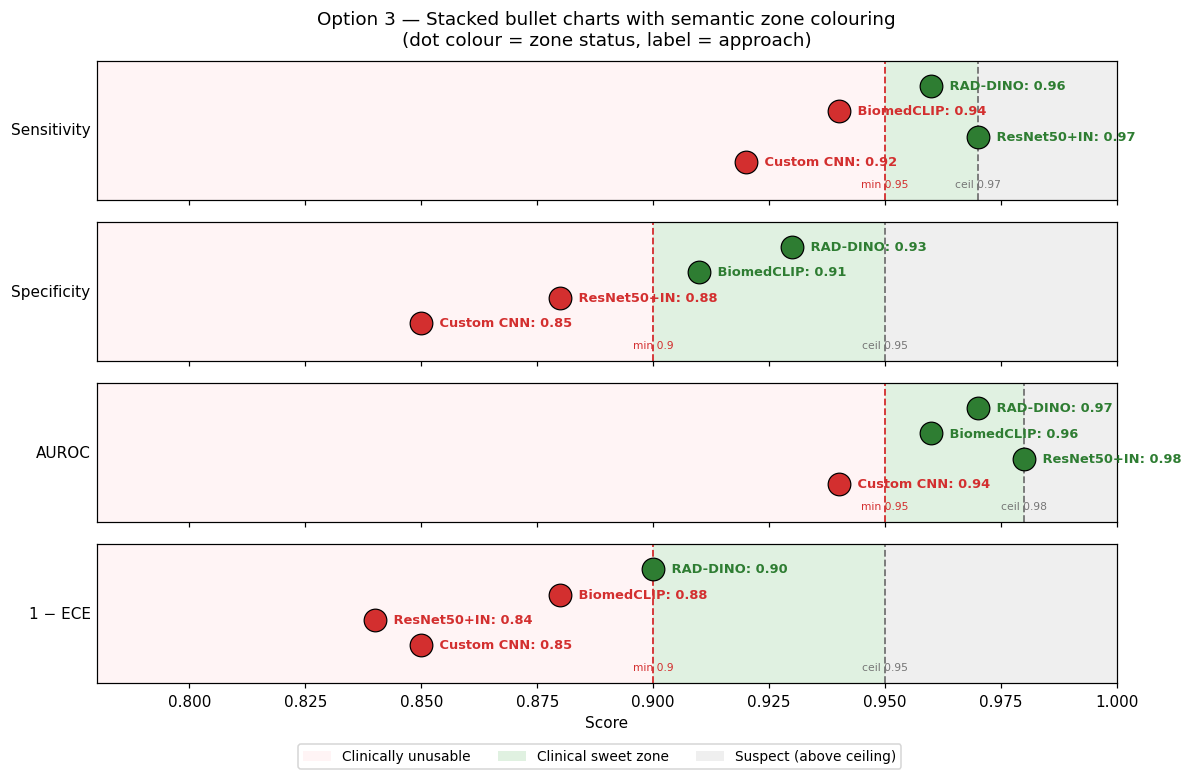
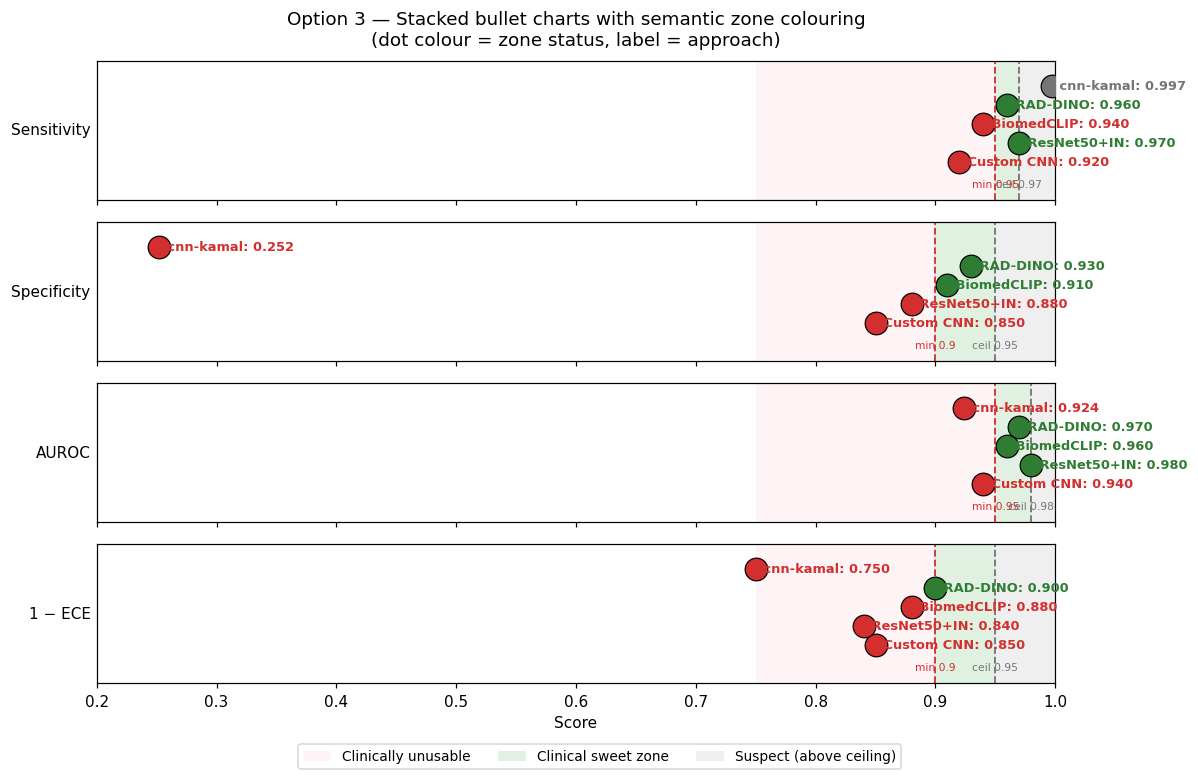
Demo viz: add cnn-kamal peer reference to Option 3 bullet chart
Adds a fifth approach to the standalone Option 3 mockup (not to the
notebook) with measurements from the peer reference discussed in
earlier conversation:

  cnn-kamal: sensitivity 0.997, specificity 0.252, AUROC 0.924, 1-ECE 0.750

The bullet chart's xlim is extended to 0.20-1.00 so the spec=0.252
point is visible. Result is visually striking: cnn-kamal sits in the
'suspect' (grey) zone for sensitivity but is 'clinically unusable'
(red) on every other metric — the classic 'predict-everything-positive'
pattern reachable via aggressive threshold tuning.

Value precision on dot labels bumped from .2f to .3f so values like
0.997 don't round to 1.000.

Option 5 (sens × spec scatter) explicitly excludes cnn-kamal — its
spec=0.252 falls off the 0.78-1.0 scatter axis, and the bullet chart
already shows the case.

diff --git a/_helpers/_viz_options.py b/_helpers/_viz_options.py
@@ -8,7 +8,7 @@ import numpy as np
 
 OUT_DIR = Path(__file__).resolve().parent
 
-APPROACHES = ['Custom CNN', 'ResNet50+IN', 'BiomedCLIP', 'RAD-DINO']
+APPROACHES = ['Custom CNN', 'ResNet50+IN', 'BiomedCLIP', 'RAD-DINO', 'cnn-kamal']
 METRICS = ['Sensitivity', 'Specificity', 'AUROC', '1 − ECE']
 THR_MIN = {'Sensitivity': 0.95, 'Specificity': 0.90, 'AUROC': 0.95, '1 − ECE': 0.90}
 THR_MAX = {'Sensitivity': 0.97, 'Specificity': 0.95, 'AUROC': 0.98, '1 − ECE': 0.95}
@@ -18,6 +18,10 @@ VALUES = {
     'ResNet50+IN': [0.97, 0.88, 0.98, 0.84],
     'BiomedCLIP':  [0.94, 0.91, 0.96, 0.88],
     'RAD-DINO':    [0.96, 0.93, 0.97, 0.90],
+    # Peer reference (anonymous): high sens via threshold tuning at the cost
+    # of specificity, AUROC, and calibration. Included as an instructive
+    # example of an "unusable" classifier despite impressive sensitivity.
+    'cnn-kamal':   [0.997, 0.252, 0.924, 0.75],
 }
 
 # Semantic zone colours
@@ -66,7 +70,7 @@ def option3():
             y = y_offsets[i]
             ax.scatter(v, y, s=220, color=c, zorder=3,
                        edgecolor='black', linewidth=0.8)
-            ax.text(v + 0.003, y, f' {app}: {v:.2f}',
+            ax.text(v + 0.003, y, f' {app}: {v:.3f}',
                     va='center', fontsize=8.5, fontweight='bold', color=c)
         # Threshold labels at bottom
         ax.text(THR_MIN[m], -1.0, f'min {THR_MIN[m]}', ha='center',
@@ -75,7 +79,7 @@ def option3():
                 fontsize=7, color=COLOR_SUS)
         ax.set_ylabel(m, fontsize=10, rotation=0, ha='right', va='center')
         ax.set_yticks([]); ax.set_ylim(-1.2, 1.0)
-        ax.set_xlim(0.78, 1.0)
+        ax.set_xlim(0.20, 1.0)
     axes[-1].set_xlabel('Score')
     axes[0].set_title('Option 3 — Stacked bullet charts with semantic zone colouring\n'
                       '(dot colour = zone status, label = approach)',
@@ -92,6 +96,9 @@ def option3():
 
 # ─── Option 5 (revised): semantic sens × spec scatter ───────────────────────
 def option5():
+    # Skip cnn-kamal here — its spec=0.25 falls off the 0.78–1.0 axis we use
+    # for the sweet-spot scatter. It's already shown in the bullet chart.
+    scatter_approaches = [a for a in APPROACHES if a != 'cnn-kamal']
     fig, ax = plt.subplots(figsize=(8.5, 8))
     # Background quadrant zones
     # Below either minimum = red
@@ -116,7 +123,7 @@ def option5():
     ax.axvline(THR_MAX['Specificity'], color=COLOR_SUS, linestyle='--', linewidth=1.2)
     ax.axhline(THR_MAX['Sensitivity'], color=COLOR_SUS, linestyle='--', linewidth=1.2)
     # Approach dots — colour = worst-zone-of-the-two
-    for app in APPROACHES:
+    for app in scatter_approaches:
         sens = VALUES[app][0]; spec = VALUES[app][1]
         zone_s = zone_of('Sensitivity', sens)
         zone_p = zone_of('Specificity', spec)